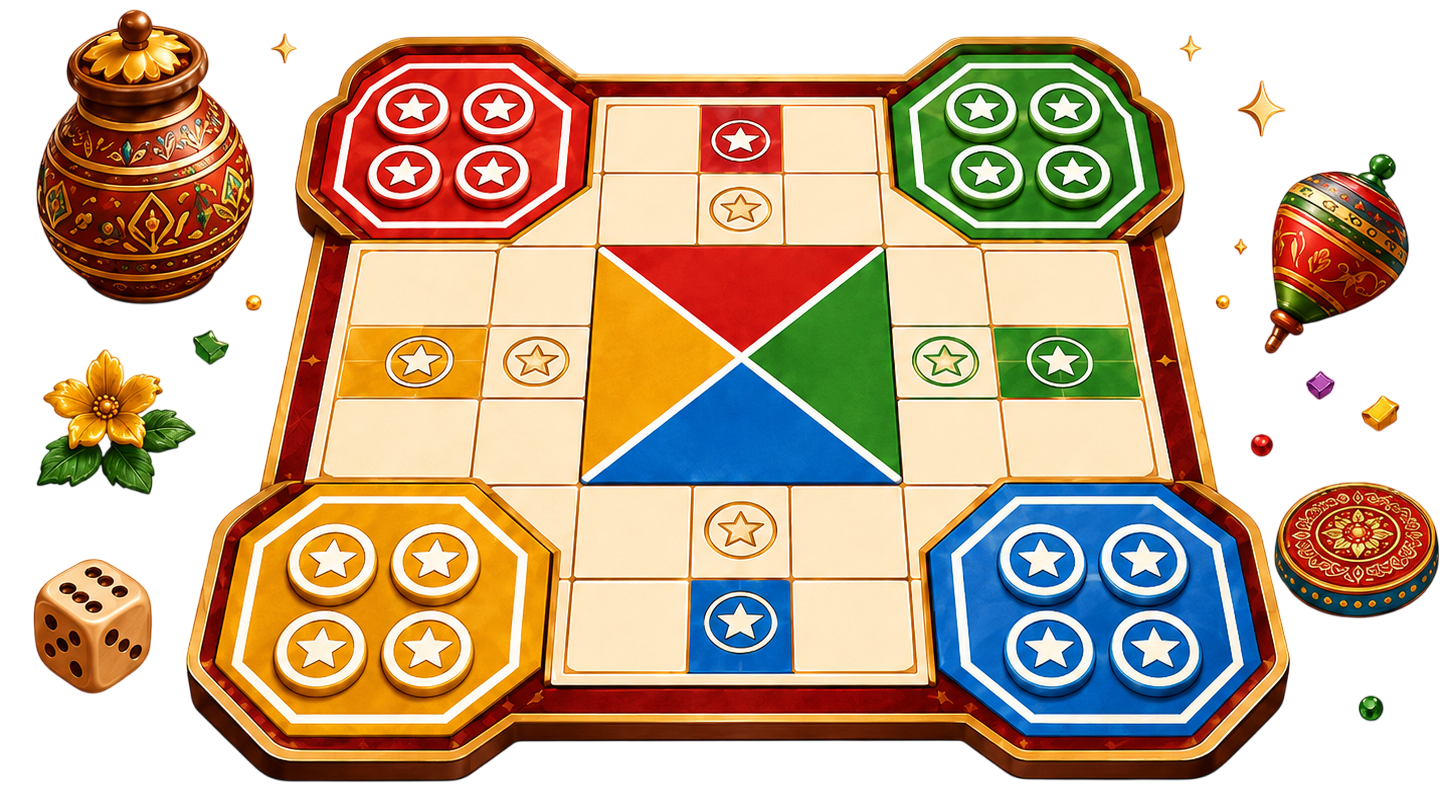
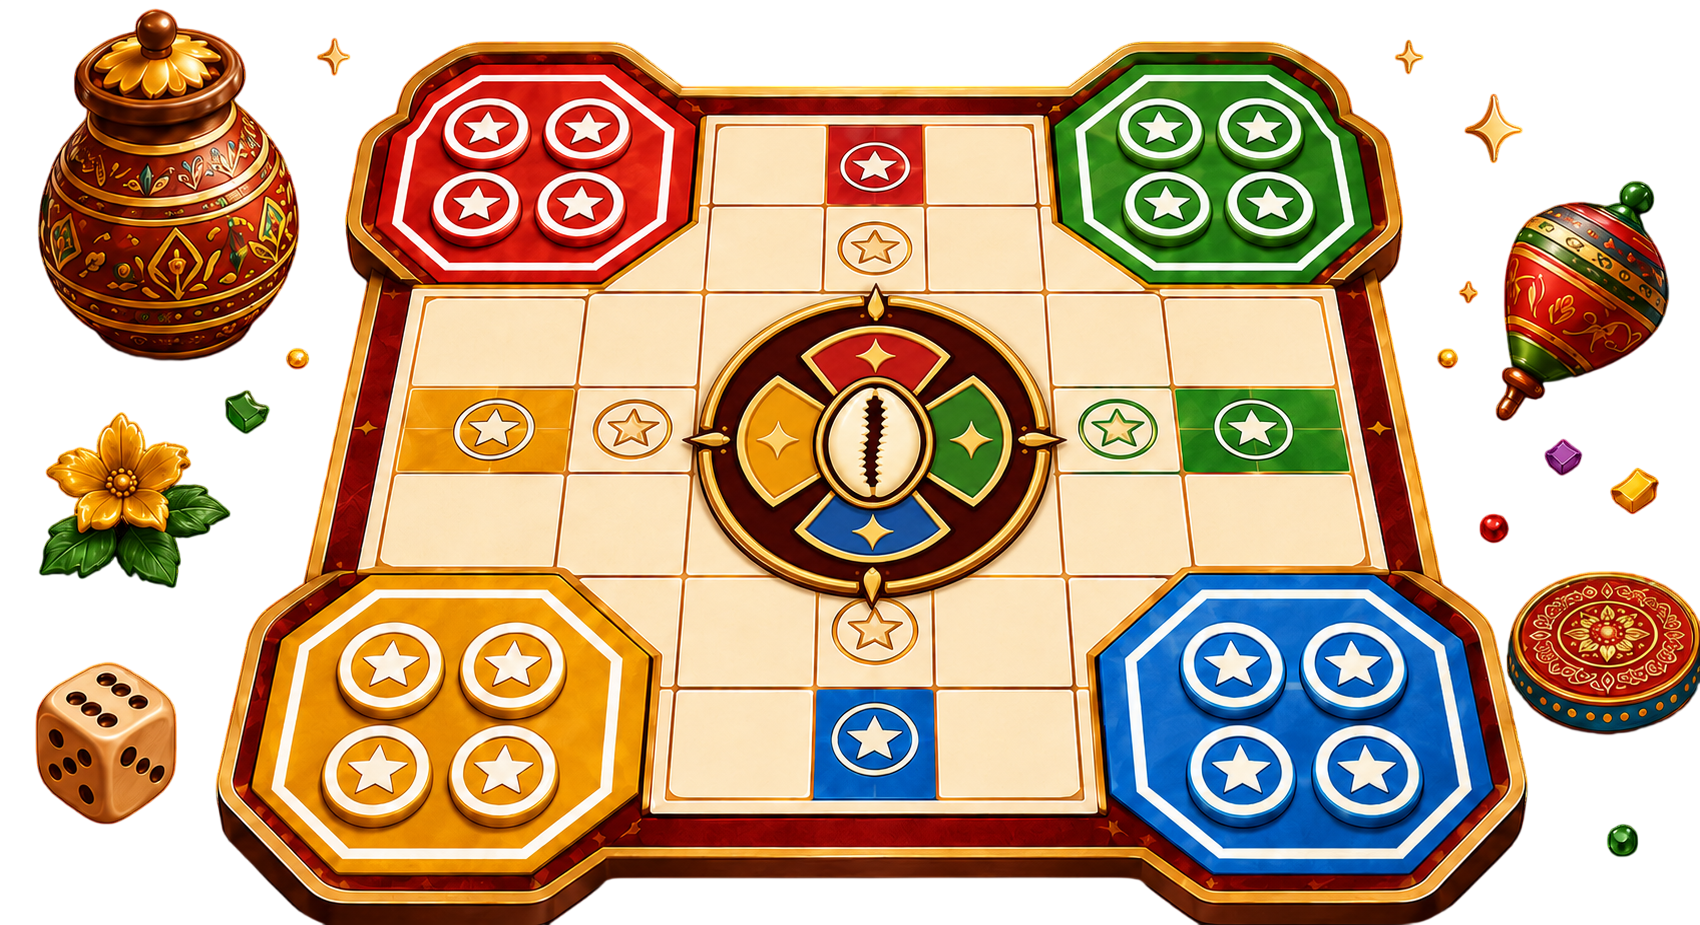
Random player name for computer

diff --git a/lib/data/computer_names_repository.dart b/lib/data/computer_names_repository.dart
@@ -1,0 +1,32 @@
+import 'dart:convert';
+import 'dart:math';
+
+import 'package:flutter/services.dart';
+
+class ComputerNamesRepository {
+  ComputerNamesRepository._();
+
+  static const _assetPath = 'assets/data/computer_names.json';
+
+  static List<String>? _cachedNames;
+
+  static Future<List<String>> loadNames() async {
+    if (_cachedNames != null) return _cachedNames!;
+
+    final raw = await rootBundle.loadString(_assetPath);
+    final decoded = jsonDecode(raw) as List<dynamic>;
+    _cachedNames = decoded.cast<String>();
+    return _cachedNames!;
+  }
+
+  static List<String> pickRandomNames(List<String> allNames, int count) {
+    if (count <= 0) return const [];
+    if (count >= allNames.length) {
+      final shuffled = List<String>.from(allNames)..shuffle(Random());
+      return shuffled;
+    }
+
+    final shuffled = List<String>.from(allNames)..shuffle(Random());
+    return shuffled.take(count).toList();
+  }
+}

diff --git a/lib/features/game/screens/isto_game_screen.dart b/lib/features/game/screens/isto_game_screen.dart
@@ -3,6 +3,7 @@ import 'dart:math' as math;
 import 'package:flutter/material.dart';
 import 'package:isto_king/core/widgets/app_screen_scaffold.dart';
 import 'package:isto_king/core/theme/royal_colors.dart';
+import 'package:isto_king/data/computer_names_repository.dart';
 import 'package:isto_king/data/player_config.dart';
 import 'package:isto_king/features/game/controllers/computer_turn_orchestrator.dart';
 import 'package:isto_king/features/game/controllers/game_turn_controller.dart';
@@ -36,7 +37,7 @@ class IstoGameScreen extends StatefulWidget {
 
 class _IstoGameScreenState extends State<IstoGameScreen>
     with WidgetsBindingObserver {
-  late final List<PlayerInfo> _players = buildGamePlayers(widget.setup);
+  late List<PlayerInfo> _players = buildGamePlayers(widget.setup);
   late GameTurnController _turnController = _createTurnController(
     useInitialController: true,
   );
@@ -141,10 +142,39 @@ class _IstoGameScreenState extends State<IstoGameScreen>
   void initState() {
     super.initState();
     WidgetsBinding.instance.addObserver(this);
+    _assignRandomComputerNames();
     _saveGameIfNeeded();
     WidgetsBinding.instance.addPostFrameCallback(
       (_) => _scheduleComputerTurn(),
     );
+  }
+
+  Future<void> _assignRandomComputerNames() async {
+    if (!widget.setup.isVsComputer) return;
+
+    try {
+      final computerIndexes = widget.setup.computerPlayerIndexes.toList()
+        ..sort();
+      final allNames = await ComputerNamesRepository.loadNames();
+      final pickedNames = ComputerNamesRepository.pickRandomNames(
+        allNames,
+        computerIndexes.length,
+      );
+      final computerNamesByIndex = {
+        for (var i = 0; i < computerIndexes.length; i++)
+          computerIndexes[i]: pickedNames[i],
+      };
+
+      if (!mounted) return;
+      setState(() {
+        _players = buildGamePlayers(
+          widget.setup,
+          computerNamesByIndex: computerNamesByIndex,
+        );
+      });
+    } on Object {
+      // Keep fallback "Computer 1/2/3" names if the asset cannot be loaded.
+    }
   }
 
   @override

diff --git a/lib/data/player_config.dart b/lib/data/player_config.dart
@@ -33,7 +33,10 @@ const baseGamePlayers = [
 
 const gamePlayers = baseGamePlayers;
 
-List<PlayerInfo> buildGamePlayers(GameSetupConfig config) {
+List<PlayerInfo> buildGamePlayers(
+  GameSetupConfig config, {
+  Map<int, String>? computerNamesByIndex,
+}) {
   if (config.isPassAndPlay) {
     return [
       for (final player in baseGamePlayers)
@@ -67,7 +70,8 @@ List<PlayerInfo> buildGamePlayers(GameSetupConfig config) {
           computerNumberByIndex.containsKey(player.index))
         PlayerInfo(
           index: player.index,
-          name: 'Computer ${computerNumberByIndex[player.index]}',
+          name: computerNamesByIndex?[player.index] ??
+              'Computer ${computerNumberByIndex[player.index]}',
           color: player.color,
           avatarAsset: player.avatarAsset,
           avatarOnRight: player.avatarOnRight,